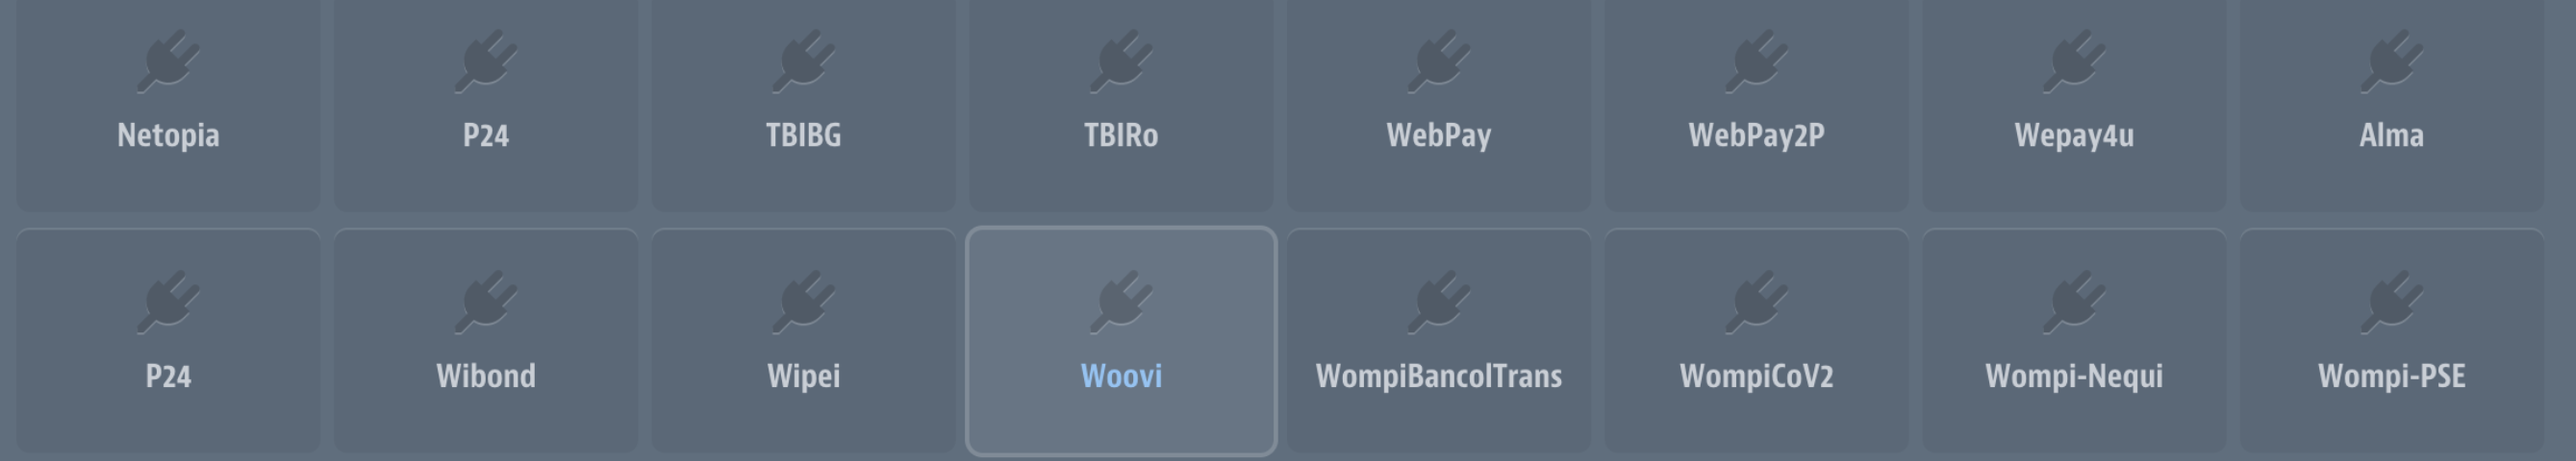
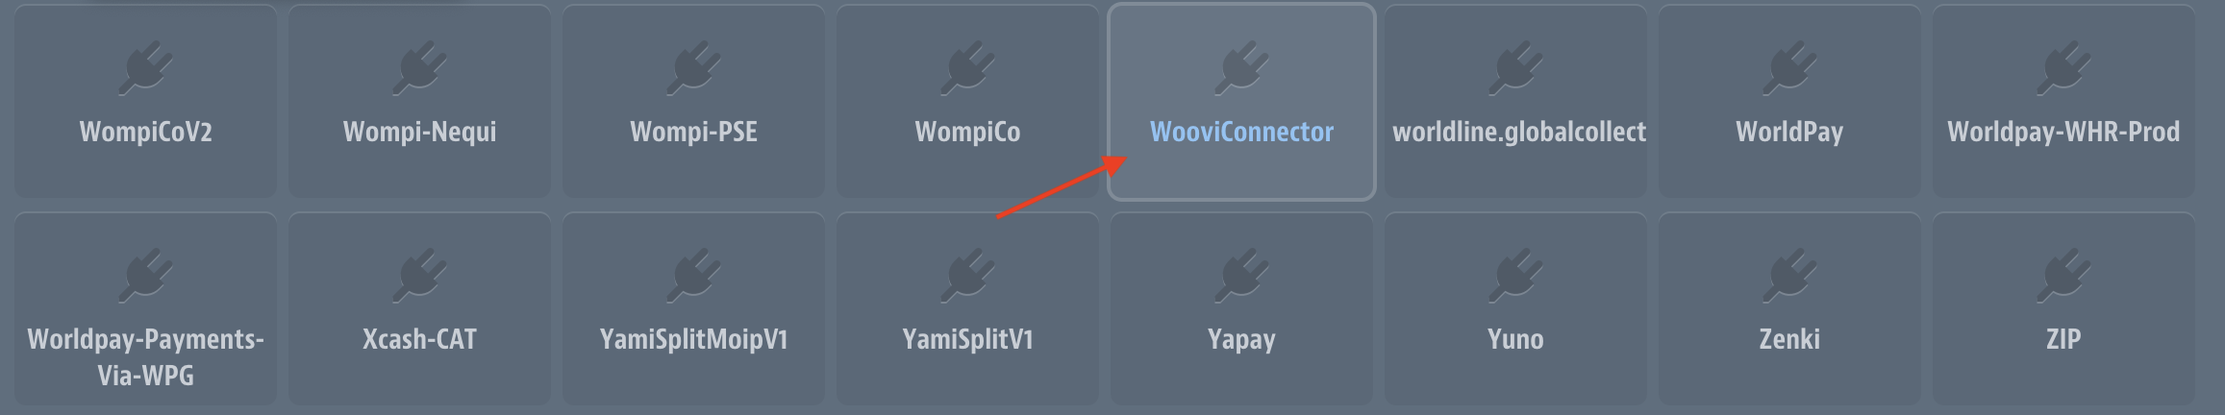
feat(vtex): improve vtex documentation

diff --git a/docs/ecommerce/vtex/vtex-integrating.md b/docs/ecommerce/vtex/vtex-integrating.md
@@ -3,8 +3,8 @@ id: vtex-integrating
 title: Integrando VTEX na OpenPix
 sidebar_position: 0
 tags:
-- ecommerce
-- vtex
+  - ecommerce
+  - vtex
 ---
 
 :::caution Atenção
@@ -40,14 +40,32 @@ Nesta aba clique no botão `+`.
 
 ![vtex-add-new-gateway](./__assets__/add-new-gateway.png)
 
-### 3.2 Selecione o conector `Woovi`
+### 3.2 Selecione o gateway `WooviConnector`
 
 ![vtex-woovi-gateway](./__assets__/gateway-woovi.png)
 
-### 4. Configure o connector
+### 4. Configure o gateway
 
-Cole o App ID que você já havia copiado, e clique em Salvar
+Cole seu `Application Key`, `Application Token` e o `App ID` que você já havia copiado, e clique em `Salvar`.
 
 ![vtex-woovi-gateway](./__assets__/woovi-connector-detail.png)
 
-Agora basta você configurar sua `Condição de pagamento` no ADMIN do seu ecommerce VTEX, e pronto.
+Caso você não tenha o `Application Key` e `Application Token`, você pode seguir a [documentação](https://help.vtex.com/pt/tutorial/chaves-de-aplicacao--2iffYzlvvz4BDMr6WGUtet) oficial da VTEX para fazer a geração.
+
+### 5. Adicionando `Condição de pagamento` da Woovi
+
+Logo depois de adicionar a nova afiliação de gateway, vá na aba `Condições de pagamentos` e clique em `+`.
+
+![vtex-add-new-payment-condition](./__assets__/add-new-payment-condition.png)
+
+### 5.1 Selecione a condição de pagamento `Woovi`
+
+![vtex-woovi-payment-condition](./__assets__/payment-condition-woovi.png)
+
+### 5.2 Configure a condição de pagamento
+
+Selecione o gateway da Woovi que você acabou de criar, logo em seguida clique em `Salvar`.
+
+![woovi-payment-condition-detail](./__assets__/woovi-payment-condition-detail.png)
+
+Pronto, agora o método de pagamento da Woovi já aparecerá no seu checkout.
